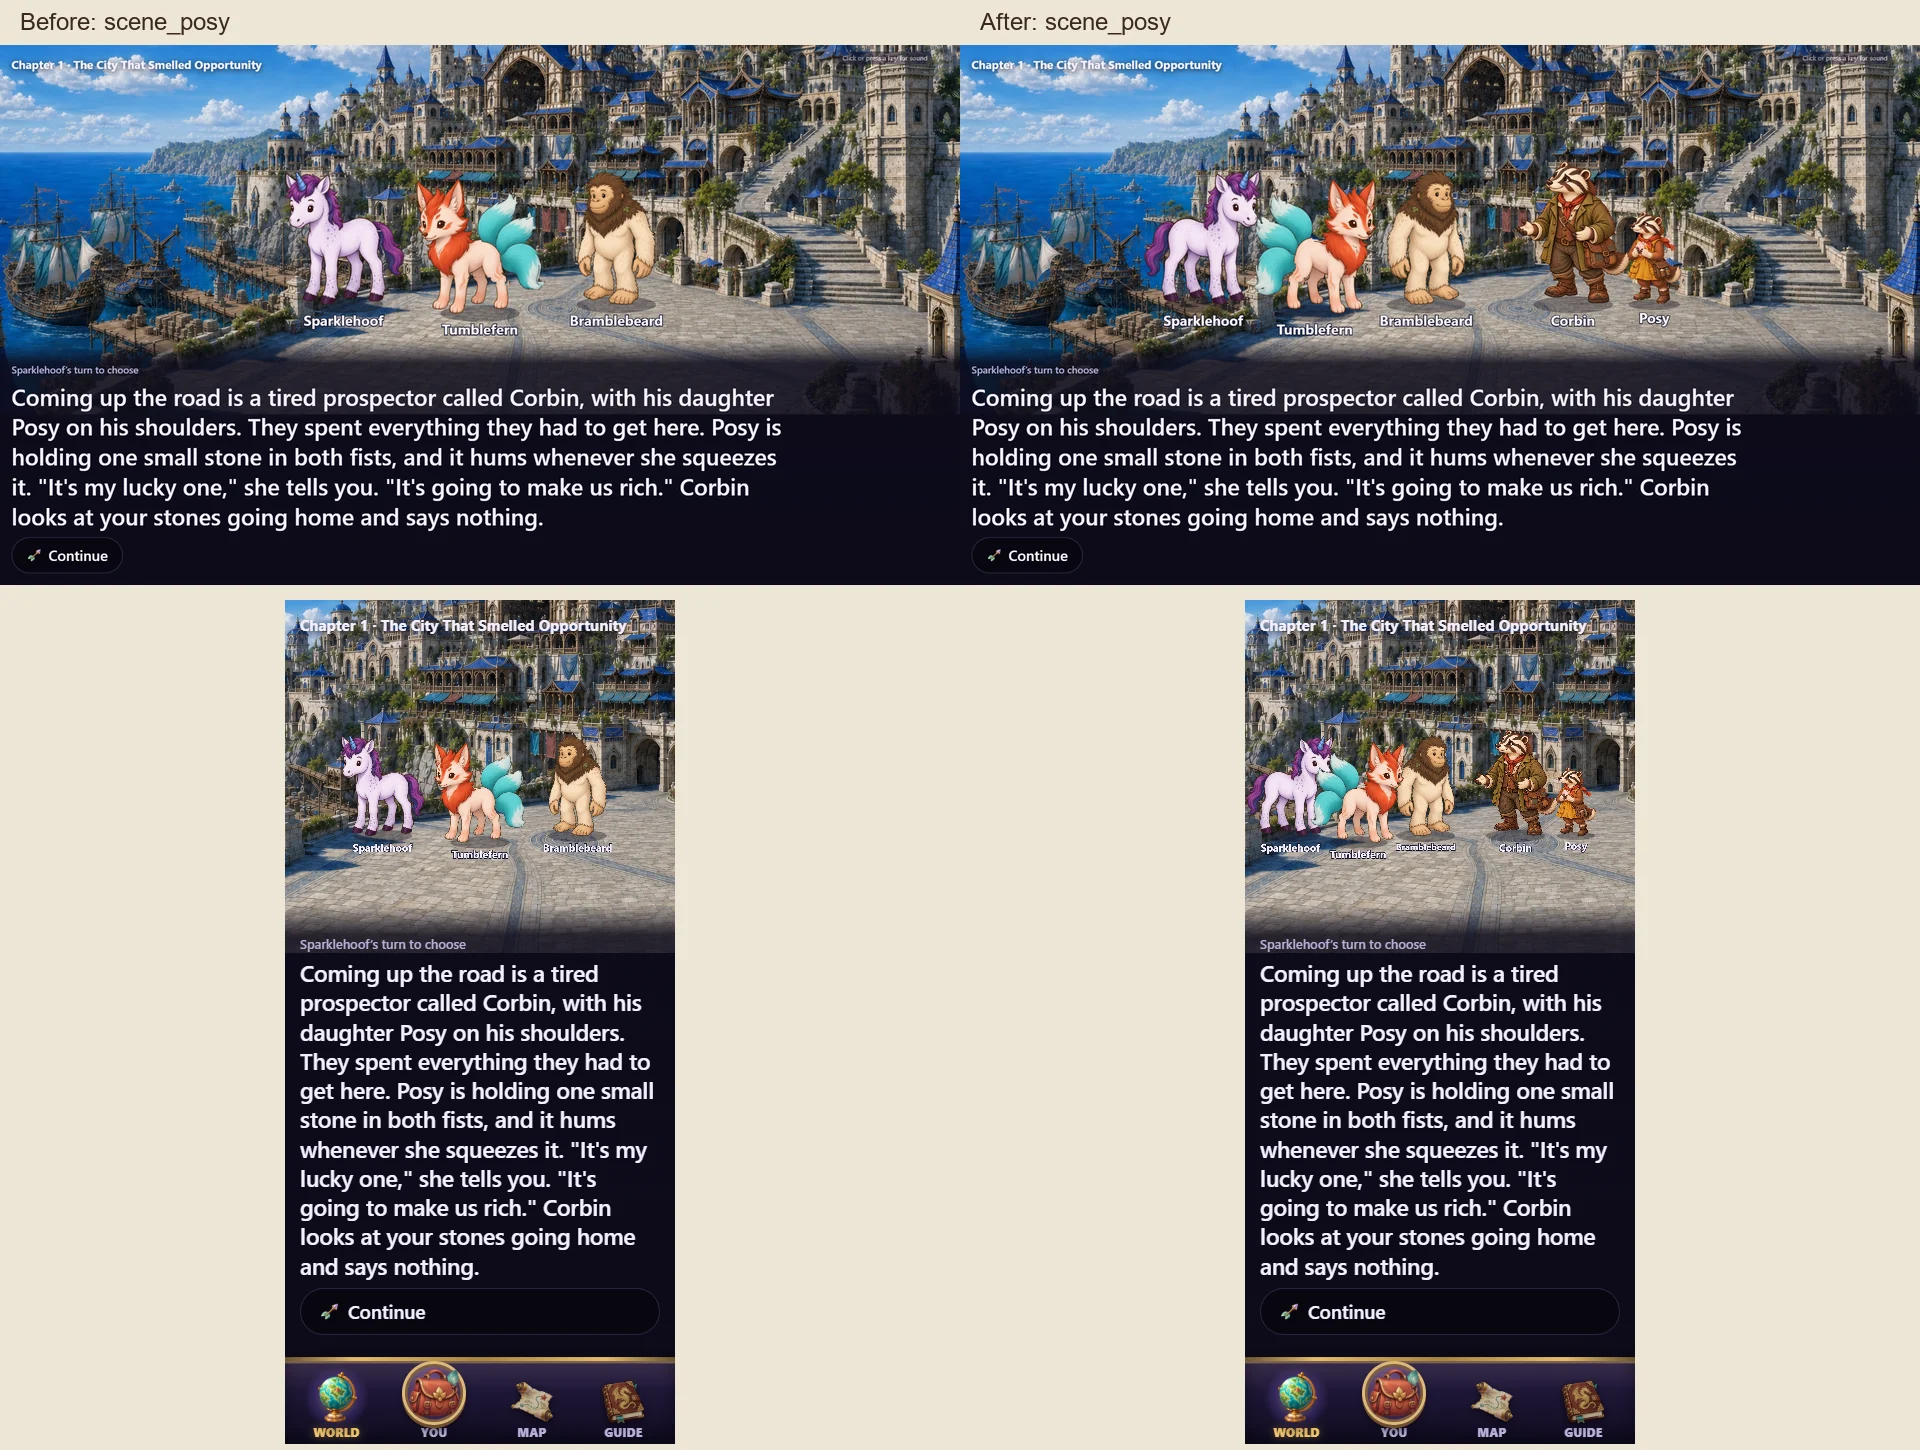
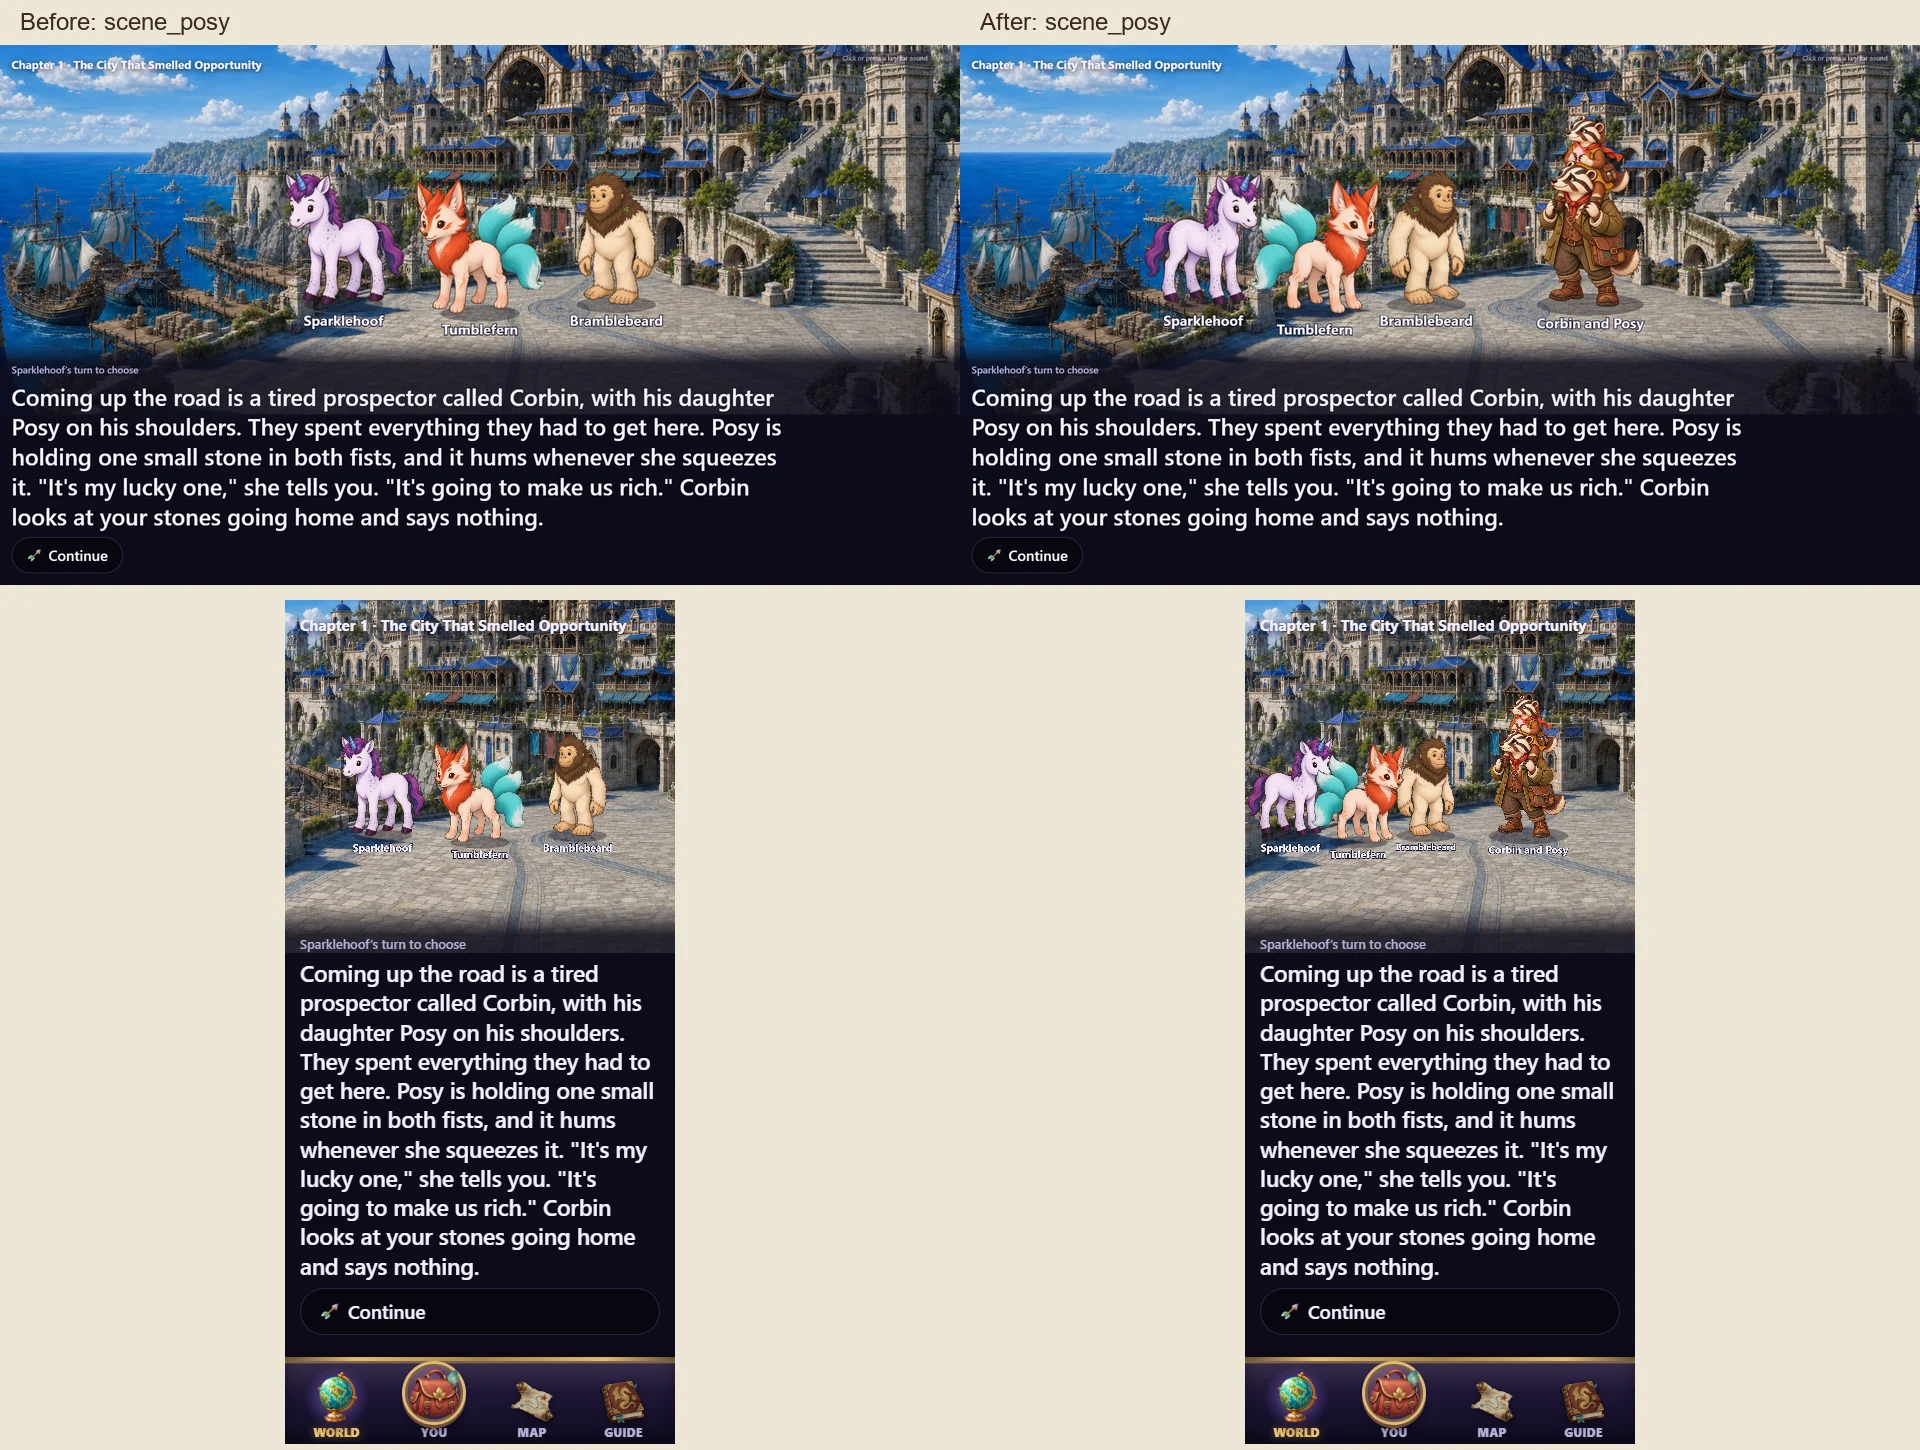
Show Posy riding on Corbin's shoulders in introduction scenes

Changed region(s): [[0.625, 0.0621, 0.875, 0.2483], [0.6562, 0.4655, 0.8438, 0.5897]]

diff --git a/docs/reviews/issue-170/README.md b/docs/reviews/issue-170/README.md
@@ -1,6 +1,6 @@
 # Issue 170: Gemfall expansion cast review
 
-Eight new left-facing transparent figures, declared in `assets/manifest.json` and wired into five Gemfall chapters. The [brief audit](../../briefs/story-cast-art.md#9-gemfall-expansion-cast-audit--issue-170) lists every named stand-in found, the visual briefs, existing expansion deliveries and the remaining occupational/group figures. [Prompts and references](../../campaigns/gemfall-illustrations.md#issue-170--remaining-expansion-speakers-2026-10-15) record the built-in image-generation calls.
+Nine left-facing transparent figure assets for eight characters, declared in `assets/manifest.json` and wired into five Gemfall chapters. The [brief audit](../../briefs/story-cast-art.md#9-gemfall-expansion-cast-audit--issue-170) lists every named stand-in found, the visual briefs, existing expansion deliveries and the remaining occupational/group figures. [Prompts and references](../../campaigns/gemfall-illustrations.md#issue-170--remaining-expansion-speakers-2026-10-15) record the built-in image-generation calls.
 
 ![Eight new cast figures](contact-sheet.webp)
 
@@ -9,15 +9,16 @@ Eight new left-facing transparent figures, declared in `assets/manifest.json` an
 | Figure | Basis | Scale | Cast entries |
 |---|---|---|---|
 | Odo | burrowfolk | medium | 5 |
-| Corbin | burrowfolk | medium | 5 |
-| Posy | burrowfolk | small | 5 |
+| Corbin (on foot) | burrowfolk | medium | 1 |
+| Posy (on foot) | burrowfolk | small | 1 |
+| Corbin carrying Posy | burrowfolk | very_large (combined height) | 4 |
 | Rook | burrowfolk | medium | 5 |
 | Selkie Grandmother | selkie | medium | 5 |
 | Path-Keeper | bigfoot | large | 3 |
 | Young Gatherer | dragonling | small | 4 |
 | Courier Griffin | griffin | medium | 4 |
 
-The boulder claimants gain ten cast entries across five scenes: a Burrowfolk Claimant and a Faun Claimant using distinct existing species figures. Linnet is restored to the scouts' fib scene. Total: 47 entries added or replaced. Odo's barrow, the path-keeper's book, and the courier's sack belong to their cutouts; no existing species art was replaced. Posy and Corbin have separate figures so they can return on foot.
+The boulder claimants gain ten cast entries across five scenes: a Burrowfolk Claimant and a Faun Claimant using distinct existing species figures. Linnet is restored to the scouts' fib scene. Total: 43 entries added or replaced. Odo's barrow, the path-keeper's book, and the courier's sack belong to their cutouts; no existing species art was replaced. Posy rides on Corbin’s shoulders in all four introduction scenes; their separate figures are used for the later downhill reunion on foot.
 
 ## Before and after
 
@@ -45,4 +46,18 @@ Captured twice with the existing `e2e/cast-shot.spec.ts` against the real dev st
 - Semantic comparison with the original chapter JSON: every scene field except `cast` is identical.
 - `git diff --check`: clean.
 
-Art is ready for Allen's visual acceptance. Remaining generic role figures are explicitly catalogued in the brief; this delivery completes the named recurring expansion speakers requested in #170.
+Allen approved the original character designs; the shoulder-riding variant addresses the subsequent continuity feedback. Remaining generic role figures are explicitly catalogued in the brief; this delivery completes the named recurring expansion speakers requested in #170.
+
+## Continuity follow-up and main update
+
+Merged main at `8c1d771b` without conflicts. The updated PR includes every commit from that main revision. The introduction now uses `cast/corbin_carrying_posy` in all four scenes; the downhill reunion still has separate figures. No narration or mechanics changed.
+
+[Shoulder-pose correction, previous versus corrected TV + phone](posy-shoulders.webp). The introduction comparison above is refreshed with the corrected pose. [The downhill reunion remains on foot](posy-on-foot.webp). These captures use the same review-only chapter-1 fixture described above, with an additional pause for the phone's entrance animation.
+
+Validation after merging main and adding the pose:
+
+- `npm run art:verify -- corbin_carrying_posy`: **728 passed**, including shared effects and gear.
+- `npm run content:validate`: **55 passed**.
+- `npm run typecheck`: passed.
+- Full unit suite: **2665 passed, 1 skipped**, with one existing Windows CRLF-sensitive authoring-guide test failure. Neither that test nor its guide differs from main. Normalizing the guide's local line endings made its six tests pass; the guide normalization is not part of this PR. The targeted rerun of that file plus cast/art-path tests passed **37 tests**.
+- TV and phone review captures passed for both the introduction and the downhill reunion.

diff --git a/docs/briefs/story-cast-art.md b/docs/briefs/story-cast-art.md
@@ -384,7 +384,7 @@ Audited all `cast` entries in `content/chapters/gemfall-*.json` against main on 
 | Rook | burrowfolk | Young badger choir scout in plum cloak, bark mask pushed up and rose crystal at the neck. |
 | Boulder claimants | burrowfolk + faun | Two contrasting travelers, badger prospector and russet faun, each insisting on a claim; use existing individual species figures. |
 
-Odo, Corbin, Posy and Rook are assigned Burrowfolk: the established badger-like traveling people fit the gold-rush families and provide a second people within the Deep Hollow faction. Rook’s allegiance is shown by clothing, mask and crystal, not a new species. Posy and Corbin are separate figures so their return on foot still works. No narration, mechanics or canon lore changes.
+Odo, Corbin, Posy and Rook are assigned Burrowfolk: the established badger-like traveling people fit the gold-rush families and provide a second people within the Deep Hollow faction. Rook’s allegiance is shown by clothing, mask and crystal, not a new species. Posy rides on Corbin’s shoulders in a combined pose variant during the introduction; their separate figures are used for the later return on foot. No narration, mechanics or canon lore changes.
 
 ### Expansion figures already delivered before this issue
 
@@ -412,8 +412,10 @@ Odo, Corbin, Posy and Rook are assigned Burrowfolk: the established badger-like 
 
 ### Issue 170 delivery
 
-Eight new figures replace the expansion’s remaining individually named recurring speakers: `odo`, `corbin`, `posy`, `rook`, `selkie_grandmother`, `path_keeper`, `young_gatherer`, and `courier_griffin`. Together with the figures already delivered above, every proper-named recurring speaker identified in the issue has an individual figure. Role-only stand-ins remain catalogued in the audit table for future commissions; groups and ordinary working animals retain their species figures.
+Eight character designs plus a shoulder-riding pose variant replace the expansion’s remaining individually named recurring speakers: `odo`, `corbin`, `posy`, `rook`, `selkie_grandmother`, `path_keeper`, `young_gatherer`, and `courier_griffin`. Together with the figures already delivered above, every proper-named recurring speaker identified in the issue has an individual figure. Role-only stand-ins remain catalogued in the audit table for future commissions; groups and ordinary working animals retain their species figures.
 
 The unnamed boulder claimants now appear as **Burrowfolk Claimant** and **Faun Claimant** in all five scenes of their dispute, using two different existing species figures. This keeps them distinct without inventing names or new lore. Rook joins Linnet in all five scout scenes, including the check and the later crowd callback; Linnet is also restored to the fib branch. Odo, Corbin and Posy appear in both their introduction episodes and their downhill callbacks.
 
 The manifest records basis and scale; the chapters explicitly set the path-keeper to `large`, and Posy and the young gatherer to `small`, as required by the stage lookup. Chapter edits are limited to cast data. Generation prompts and references are recorded in [the illustration log](../campaigns/gemfall-illustrations.md#issue-170--remaining-expansion-speakers-2026-10-15). Review images and validation results are in [the review record](../reviews/issue-170/README.md).
+
+The `corbin_carrying_posy` variant keeps Posy on Corbin’s shoulders through the four introduction scenes. Its `very_large` stage size describes the combined occupied height; the Burrowfolk remain the same people. The downhill callback retains `cast/corbin` and `cast/posy` separately because Posy runs up the road there.

diff --git a/docs/campaigns/gemfall-illustrations.md b/docs/campaigns/gemfall-illustrations.md
@@ -773,3 +773,11 @@ One young quadrupedal dragonling girl, unmistakably same anatomy and colours as 
 **`courier_griffin`** — reference: `assets/cast/postmaster_quill/assembled.png`; source: `exec-5bd615f3-0dc9-40e5-a4ea-f5310616d02e.png`.
 
 Courier Griffin: one young working quadruped griffin, cream feather face and chest, russet wings, lion hindquarters, golden eagle forefeet, short tousled crest. No spectacles. Oversized worn navy-blue mail sack with blank envelopes and a neatly patched split seam, sling across body. Sheepish confident expression, wings folded, all four feet grounded. Match reference species but younger and distinct from postmaster.
+
+### Corbin carrying Posy — continuity correction
+
+`assets/cast/corbin_carrying_posy/assembled.png` is a pose variant generated with the built-in image-generation tool and `transparent_background: true`. References: the existing `corbin` and `posy` cutouts. Source: `exec-d640a683-7d79-4e64-9e44-3a90e72e4813.png`.
+
+It appears in `scene_posy`, `check_posy`, `scene_posy_let_keep`, and `scene_posy_medal`. The later `scene_downhill_crowd_posy` keeps the separate on-foot figures. The combined figure uses `very_large` for its occupied height, so the two stacked characters remain readable; this does not redefine the Burrowfolk people's scale. Packaged with the existing registration script; lowest opaque row y=900.
+
+Edit these two reference cast cutouts into ONE complete father-and-child cutout: Corbin carrying his small daughter Posy astride his shoulders. Preserve their exact identities, clothing, colors, painterly storybook style and three-quarter LEFT-facing orientation. Corbin is the adult Burrowfolk badger in worn olive coat, russet scarf, brown trousers and boots, shoulder bag. Posy is the small badger girl in ochre pinafore and russet scarf, boots, holding her glowing pink stone in BOTH paws in front of her chest. Posy's legs drape down either side of Corbin's neck, her seat rests firmly on his shoulders; Corbin supports her calves with both hands. She is clearly a small child, about one third his body height. Both faces visible. Corbin stands solidly with both boots on same floor line. Entire combined pair fits on a square transparent canvas with generous margin around ears, tails and boots. Genuine transparent background, NO floor, shadow, text, border or extra characters. This is one stage figure, feet bottom at y=900 on a 1024x1024 canvas; keep generous headroom.
